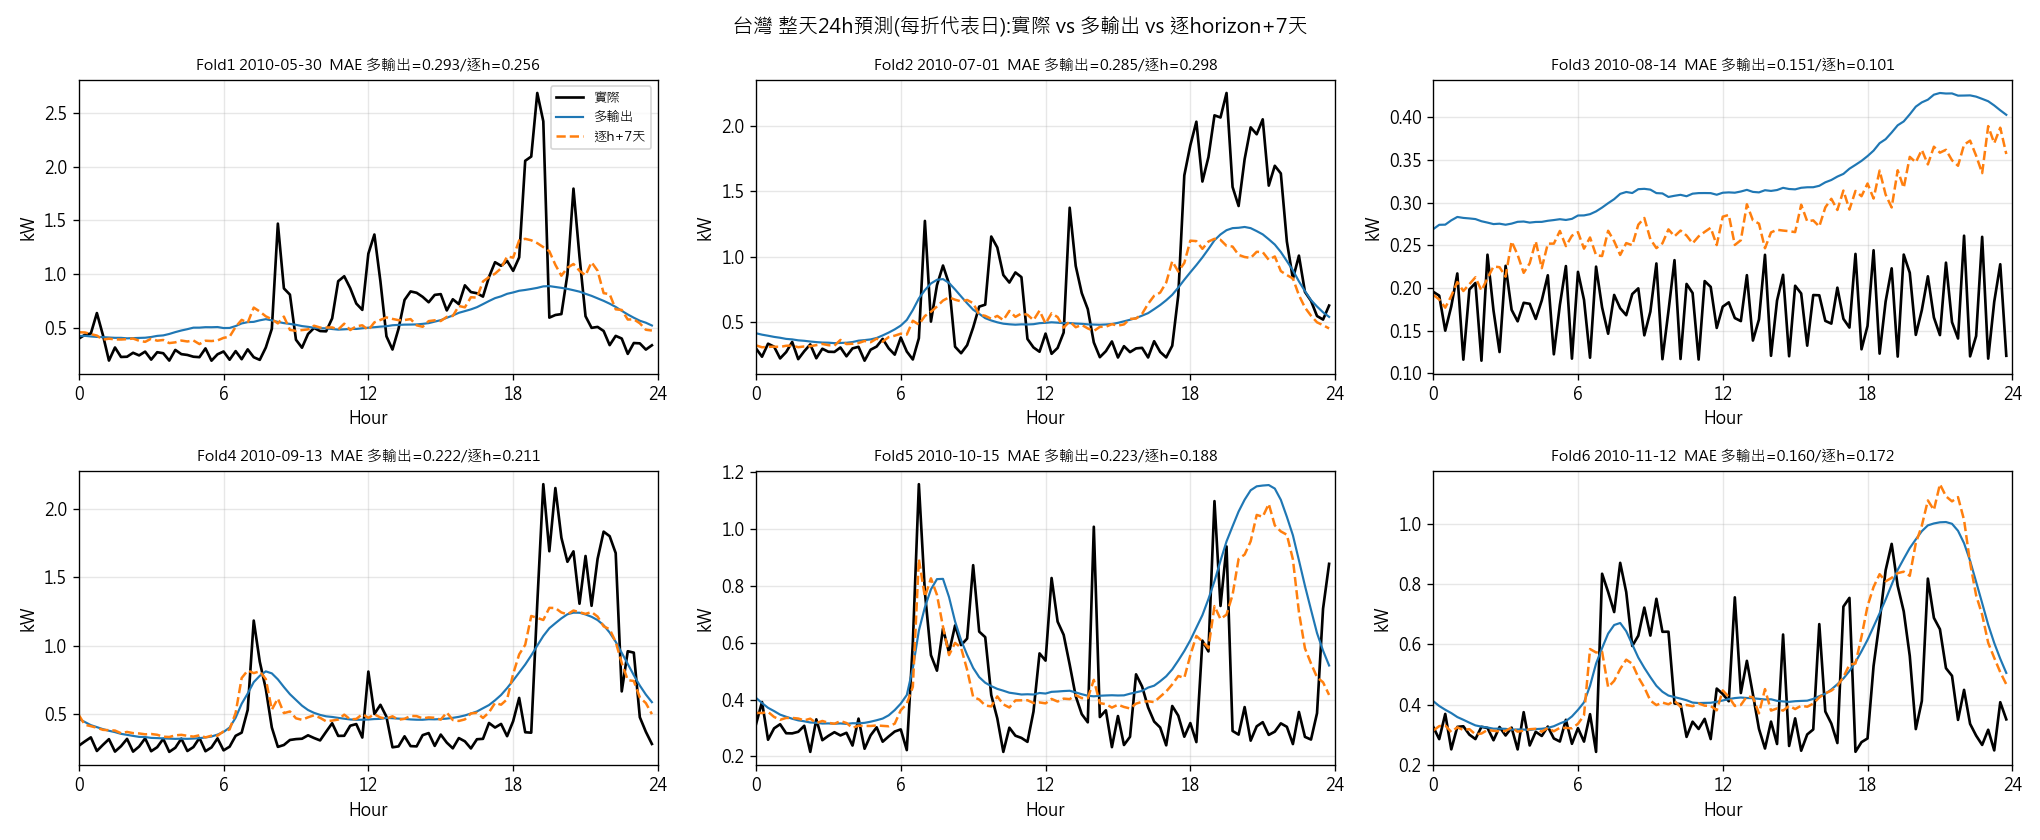
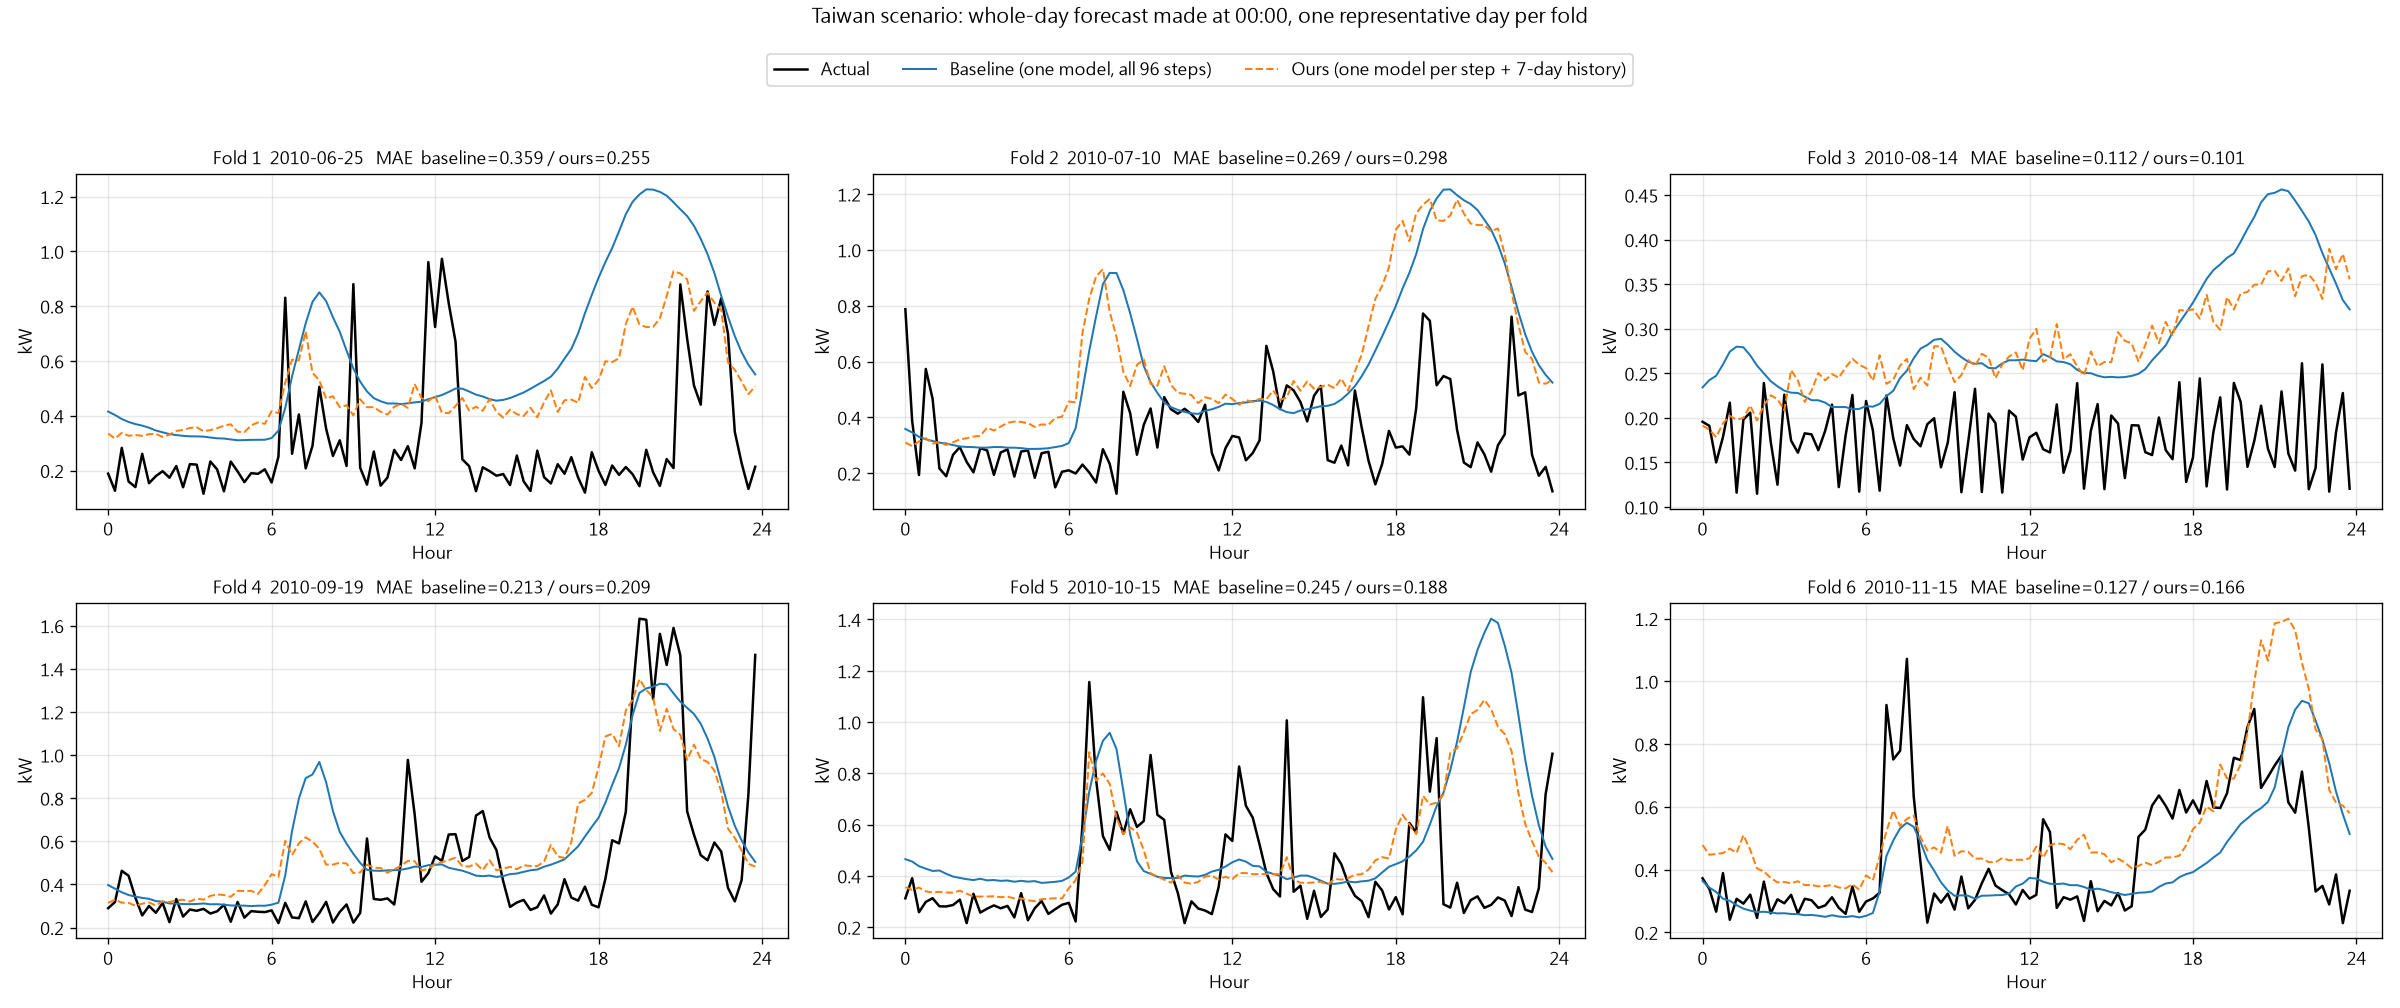
Plain-English figure labels; baseline retrained on same folds for a reproducible comparison

diff --git a/index.html b/index.html
@@ -57,11 +57,11 @@
 <h2>結果圖</h2>
 <p class="muted" style="margin:-6px 0 12px;color:#666;font-size:13px">點任一張圖可放大檢視；放大後再點一次或按 Esc 關閉，右上角可開啟原始檔。</p>
 <div class="gallery">
-  <figure class="wide"><img src="results/figures/folds_curve.png" alt="folds_curve"><figcaption>6 折各取一個代表日：實際 vs 日初單次(t0) vs 日內滾動</figcaption></figure>
-  <figure class="wide"><img src="results/figures/compare.png" alt="compare"><figcaption>Direct + 7-day lookback vs MIMO RF：t0 / rolling MAE（6 折）</figcaption></figure>
+  <figure class="wide"><img src="results/figures/folds_curve.png" alt="folds_curve"><figcaption>6 折各取一個代表日：實際 vs 每天 00:00 預測一次 vs 每 15 分鐘更新</figcaption></figure>
+  <figure class="wide"><img src="results/figures/compare.png" alt="compare"><figcaption>本方法 vs 基準：「每天 00:00 預測一次」與「每 15 分鐘更新」的 MAE（6 折平均）</figcaption></figure>
   <figure class="wide"><img src="results/figures/feature_importance_bar.png" alt="feature_importance_bar"><figcaption>特徵重要度長條圖</figcaption></figure>
   <figure class="wide"><img src="results/figures/feature_importance_detail.png" alt="feature_importance_detail"><figcaption>個別特徵重要度 Top-18</figcaption></figure>
-  <figure class="wide"><img src="results/figures/curves_t0.png" alt="curves_t0"><figcaption>6 折代表日整天預測：Actual vs MIMO vs Direct</figcaption></figure>
+  <figure class="wide"><img src="results/figures/curves_t0.png" alt="curves_t0"><figcaption>6 折代表日、每天 00:00 一次預測整天：實際 vs 基準 vs 本方法</figcaption></figure>
   <figure class="wide"><img src="results/figures/rolling_snapshots.png" alt="rolling_snapshots"><figcaption>日內滾動 — 6 個時點快照</figcaption></figure>
   <figure class="wide"><img src="results/figures/rolling.gif" alt="rolling"><figcaption>日內滾動動畫：每 15 分鐘刷新未來 24 小時</figcaption></figure>
   <figure class="wide"><img src="results/figures/rolling6.gif" alt="rolling6"><figcaption>6 折代表日同步滾動動畫（2×3）</figcaption></figure>

diff --git a/results/README.md b/results/README.md
@@ -12,11 +12,11 @@
 
 | 檔案 | 內容 |
 |------|------|
-| `folds_curve.png` | 6 折各取一個代表日：實際 vs 日初單次(t0) vs 日內滾動 |
-| `feature_importance_bar.png` | Per-step (h=1/24/96) feature importance, block sums |
-| `feature_importance_detail.png` | Per-step top-18 individual feature importance |
-| `compare.png` | Direct + 7-day lookback vs MIMO RF baseline：t0 / rolling MAE（6 折） |
-| `curves_t0.png` | 6 折代表日整天預測：Actual vs MIMO vs Direct |
+| `folds_curve.png` | 6 折各取一個代表日：實際 vs 每天 00:00 預測一次 vs 每 15 分鐘更新 |
+| `feature_importance_bar.png` | Feature importance at 1 / 24 / 96 steps ahead (grouped) |
+| `feature_importance_detail.png` | Top-18 features at 1 / 24 / 96 steps ahead |
+| `compare.png` | 本方法 vs 基準：「每天 00:00 預測一次」與「每 15 分鐘更新」的 MAE（6 折平均） |
+| `curves_t0.png` | 6 折代表日、每天 00:00 一次預測整天：實際 vs 基準 vs 本方法 |
 | `rolling_snapshots.png` | 日內滾動 6 個時點快照 |
 | `rolling.gif` | 日內滾動動畫（每 15 分刷新未來 24h） |
 | `rolling6.gif` | 6 折代表日同步滾動動畫（2×3） |
